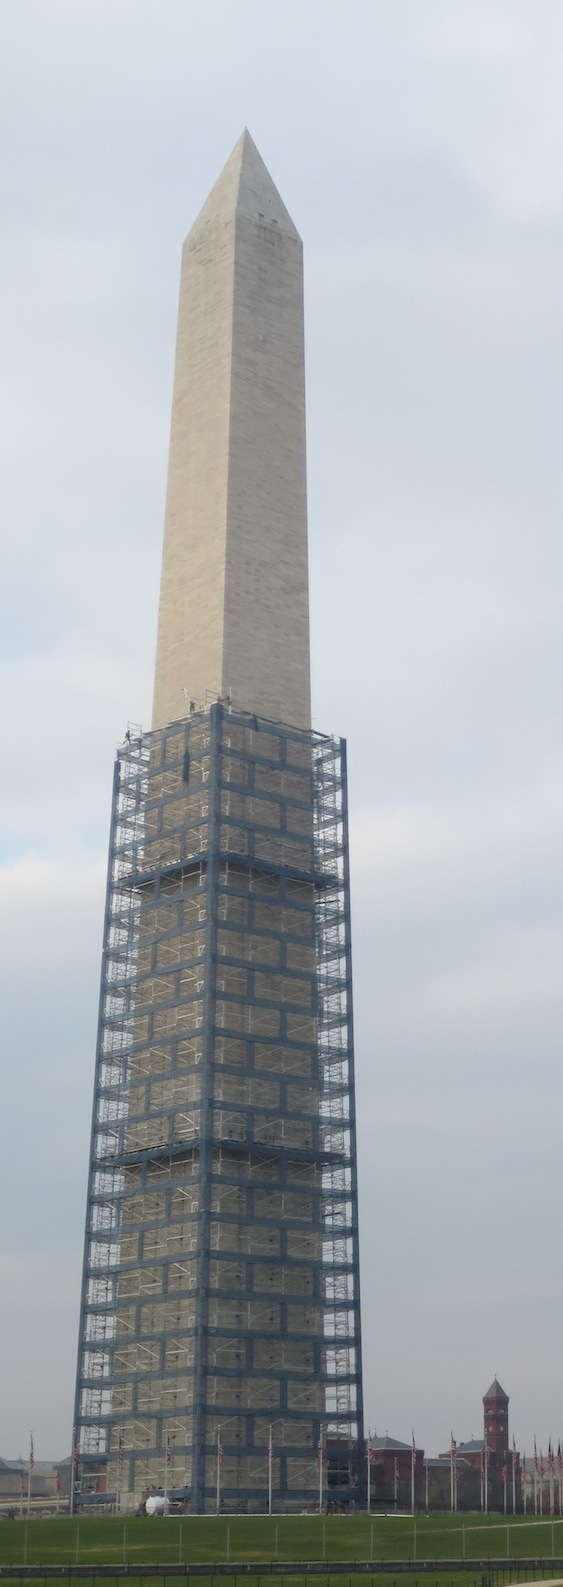
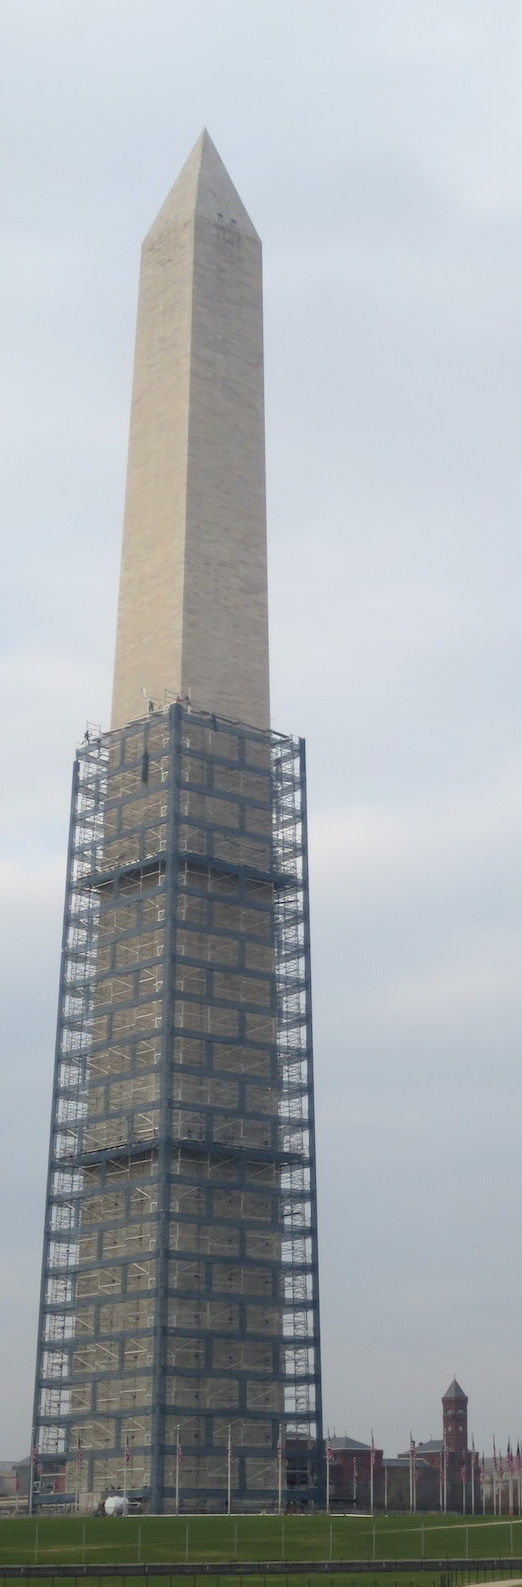
working on iphone and ipad

Changed region(s): [[0.0, 0.0618, 0.9808, 0.9572]]

diff --git a/index.html b/index.html
@@ -74,8 +74,13 @@
     if(!isMobileWebkit) {
         $.stellar();
     } else {
-        $('#front-page-bg-img').backstretch(
-            'theme/img/washington-monument.jpg', {centeredY: false});
+        if(screenWidth > 800) {
+            $('#front-page-bg-img').backstretch(
+                'theme/img/washington-monument.jpg', {centeredY: false});
+        } else {
+            $('#front-page-bg-img').backstretch(
+                'theme/img/monument-phone.jpg', {centeredY: false});
+        }
     }
         });
     </script>

diff --git a/source/theme/templates/index.html b/source/theme/templates/index.html
@@ -63,7 +63,12 @@
     if(!isMobileWebkit) {
         $.stellar();
     } else {
-        $('#front-page-bg-img').backstretch(
-            'theme/img/washington-monument.jpg', {centeredY: false});
+        if(screenWidth > 800) {
+            $('#front-page-bg-img').backstretch(
+                'theme/img/washington-monument.jpg', {centeredY: false});
+        } else {
+            $('#front-page-bg-img').backstretch(
+                'theme/img/monument-phone.jpg', {centeredY: false});
+        }
     }
 {% endblock %}
